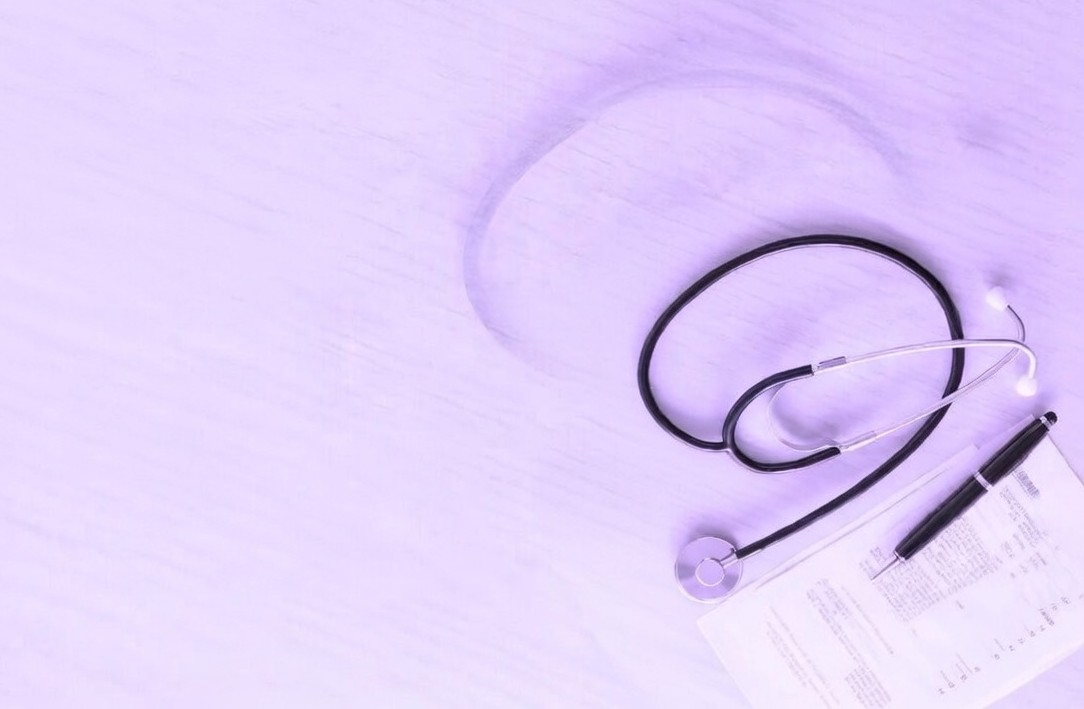
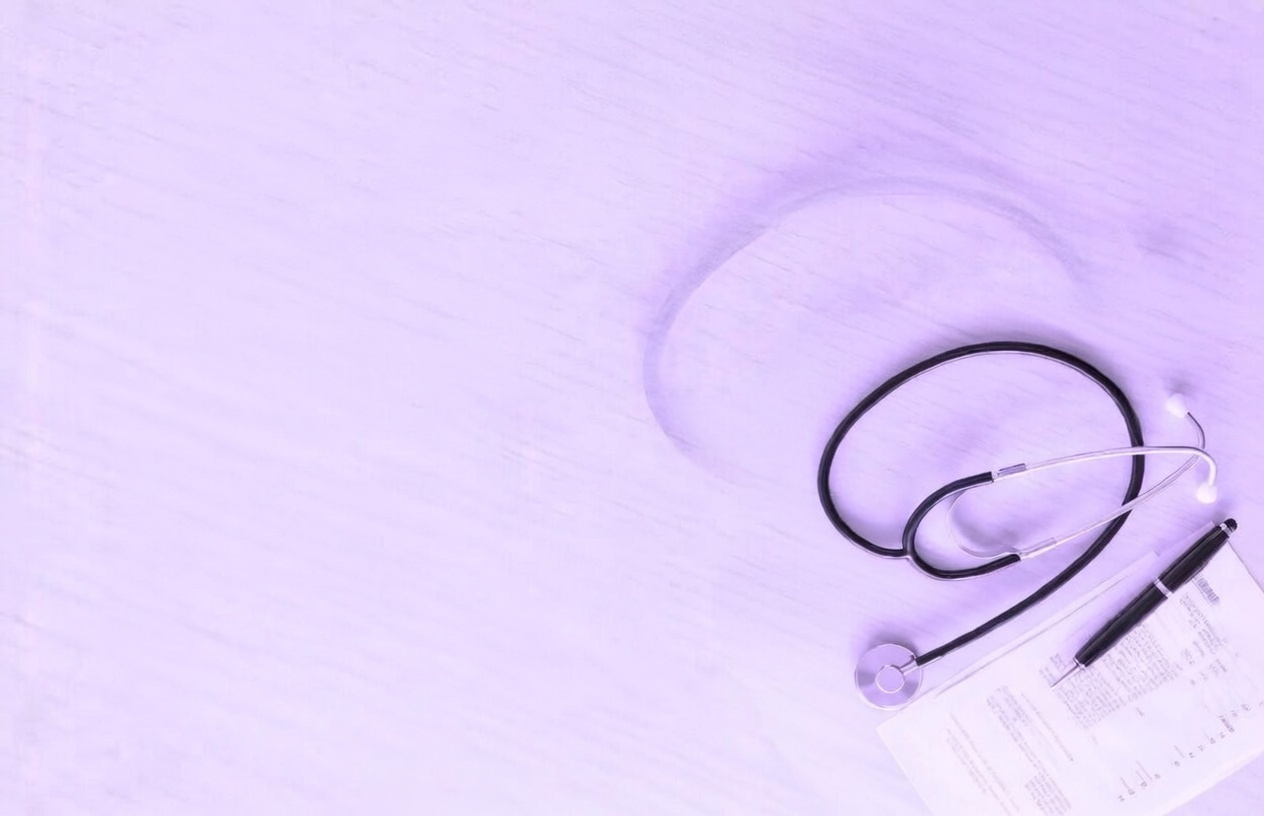
refactor : UI changes

diff --git a/src/components/home/Hero/Hero.tsx b/src/components/home/Hero/Hero.tsx
@@ -7,21 +7,45 @@ import { SITE_CONFIG, ANIMATION_VARIANTS } from "@/utils/constants"
 
 export const Hero: React.FC = () => {
     const { scrollY } = useScroll()
+
     const y = useTransform(scrollY, [0, 500], [0, 150])
     const opacity = useTransform(scrollY, [0, 300], [1, 0])
+
+    const baseDelay = 3.5
+    const subtitleDelay = baseDelay + 2.0
+    const ctaDelay = baseDelay + 2.5
+    const statsDelay = baseDelay + 3.0
+    const individualStatDelay = baseDelay + 3.5
 
     return (
         <section className="relative min-h-[90vh] flex items-center overflow-hidden pt-20">
             {/* Background Image with Overlay */}
             <div className="absolute inset-0 z-0">
-                <StaticImage
-                    src="../../../images/Hero-background.jpg"
-                    alt="Hero Background"
-                    className="w-full h-full object-cover"
-                    placeholder="blurred"
-                    loading="eager"
-                />
-                <div className="absolute inset-0 bg-white/30 backdrop-blur-sm" />
+                {/* Desktop Background */}
+                <div className="hidden lg:block absolute inset-0">
+                    <StaticImage
+                        src="../../../images/Hero-background.jpg"
+                        alt="Hero Background"
+                        className="w-full h-full object-cover"
+                        imgStyle={{ transform: 'scale(1.1)' }}
+                        placeholder="blurred"
+                        loading="eager"
+                    />
+                    <div className="absolute inset-0 bg-white/10 backdrop-blur-none" />
+                </div>
+
+                {/* Mobile Background */}
+                <div className="lg:hidden absolute inset-0">
+                    <StaticImage
+                        src="../../../images/Hero-background.jpg"
+                        alt="Mobile Hero Background"
+                        className="w-full h-full object-cover"
+                        imgStyle={{ transform: 'scale(1.25)' }}
+                        placeholder="blurred"
+                        loading="eager"
+                    />
+                    <div className="absolute inset-0 bg-white/10 backdrop-blur-none" />
+                </div>
             </div>
 
             {/* Content */}
@@ -36,26 +60,62 @@ export const Hero: React.FC = () => {
                         animate="visible"
                         className="space-y-8"
                     >
-                        {/* Main Heading */}
-                        <motion.div variants={ANIMATION_VARIANTS.fadeUp}>
+                        {/* Main Heading with Typing Effect */}
+                        <motion.div
+                            initial="hidden"
+                            animate="visible"
+                        >
                             <h1 className="font-display text-5xl md:text-6xl lg:text-7xl font-semibold leading-tight text-neutral-text">
-                                {SITE_CONFIG.tagline.split(" ").map((word, i) => (
-                                    <motion.span
-                                        key={i}
-                                        initial={{ opacity: 0, y: 20 }}
-                                        animate={{ opacity: 1, y: 0 }}
-                                        transition={{ delay: i * 0.1 + 0.2 }}
-                                        className="inline-block mr-3"
-                                    >
-                                        {word}
-                                    </motion.span>
-                                ))}
+                                {SITE_CONFIG.tagline.split(" ").map((word, wordIndex, words) => {
+                                    // Calculate starting index for this word to maintain global stagger
+                                    const previousWords = words.slice(0, wordIndex)
+                                    const startIndex = previousWords.join(" ").length + (wordIndex > 0 ? 1 : 0)
+
+                                    return (
+                                        <span key={wordIndex} className="inline-block whitespace-nowrap">
+                                            {Array.from(word).map((char, charIndex) => (
+                                                <motion.span
+                                                    key={charIndex}
+                                                    variants={{
+                                                        hidden: { opacity: 0, y: 10 },
+                                                        visible: { opacity: 1, y: 0 },
+                                                    }}
+                                                    transition={{
+                                                        duration: 0.1,
+                                                        delay: baseDelay + (startIndex + charIndex) * 0.04
+                                                    }}
+                                                    className="inline-block"
+                                                >
+                                                    {char}
+                                                </motion.span>
+                                            ))}
+                                            {/* Add space after word if not the last word */}
+                                            {wordIndex < words.length - 1 && (
+                                                <motion.span
+                                                    variants={{
+                                                        hidden: { opacity: 0, y: 10 },
+                                                        visible: { opacity: 1, y: 0 },
+                                                    }}
+                                                    transition={{
+                                                        duration: 0.1,
+                                                        delay: baseDelay + (startIndex + word.length) * 0.04
+                                                    }}
+                                                    className="inline-block"
+                                                >
+                                                    {"\u00A0"}
+                                                </motion.span>
+                                            )}
+                                        </span>
+                                    )
+                                })}
                             </h1>
                         </motion.div>
 
                         {/* Subtitle */}
                         <motion.p
-                            variants={ANIMATION_VARIANTS.fadeUp}
+                            initial={{ opacity: 0, y: 20 }}
+                            animate={{ opacity: 1, y: 0 }}
+                            transition={{ delay: subtitleDelay, duration: 0.8 }}
                             className="text-xl md:text-2xl text-neutral-muted font-medium leading-relaxed max-w-2xl"
                         >
                             Compassionate, evidence-based mental health care tailored to your
@@ -64,7 +124,9 @@ export const Hero: React.FC = () => {
 
                         {/* CTA Buttons */}
                         <motion.div
-                            variants={ANIMATION_VARIANTS.fadeUp}
+                            initial={{ opacity: 0, y: 20 }}
+                            animate={{ opacity: 1, y: 0 }}
+                            transition={{ delay: ctaDelay, duration: 0.8 }}
                             className="flex flex-wrap gap-4"
                         >
                             <Button variant="primary" size="lg" className="rounded-full shadow-lg">
@@ -78,7 +140,9 @@ export const Hero: React.FC = () => {
 
                         {/* Stats */}
                         <motion.div
-                            variants={ANIMATION_VARIANTS.fadeUp}
+                            initial={{ opacity: 0, y: 20 }}
+                            animate={{ opacity: 1, y: 0 }}
+                            transition={{ delay: statsDelay, duration: 0.8 }}
                             className="grid grid-cols-2 md:grid-cols-3 gap-8 pt-8"
                         >
                             {[
@@ -90,7 +154,7 @@ export const Hero: React.FC = () => {
                                     key={stat.label}
                                     initial={{ opacity: 0, scale: 0.8 }}
                                     animate={{ opacity: 1, scale: 1 }}
-                                    transition={{ delay: 0.8 + index * 0.1 }}
+                                    transition={{ delay: individualStatDelay + index * 0.1 }}
                                     className="text-left"
                                 >
                                     <div className="font-display text-4xl font-bold text-primary-deep">

diff --git a/src/components/ui/Timeline.tsx b/src/components/ui/Timeline.tsx
@@ -148,61 +148,60 @@ export const EducationTimeline: React.FC = () => {
     const educationData: TimelineItem[] = [
         {
             id: "1",
-            year: "2015-2020",
-            title: "MBBS (Bachelor of Medicine, Bachelor of Surgery)",
-            institution: "Dhaka Medical College",
+            year: "2017-2019",
+            title: "Secondary School Certificate (SSC)",
+            institution: "Viqarunnisa Noon School & College",
             description:
-                "Completed comprehensive medical education with distinction, focusing on psychiatry and mental health during clinical rotations.",
-            icon: "GraduationCap",
+                "Completed secondary education with a strong academic foundation in science subjects, demonstrating early interest in medical studies.",
+            icon: "BookOpen",
             achievements: [
-                "First Class with Honors",
-                "Best Research Paper Award in Psychiatry",
-                "President of Medical Students Association",
+                "Science background",
+                "Consistent academic performance",
             ],
         },
         {
             id: "2",
-            year: "2021-2024",
-            title: "FCPS (Fellowship of College of Physicians and Surgeons)",
-            institution: "Bangladesh College of Physicians and Surgeons",
+            year: "2019-2021",
+            title: "Higher Secondary Certificate (HSC)",
+            institution: "Viqarunnisa Noon School & College",
             description:
-                "Specialized training in clinical psychology and psychiatry with emphasis on cognitive behavioral therapy and trauma-informed care.",
-            icon: "Award",
+                "Completed higher secondary education in the science stream, preparing for competitive medical admission examinations.",
+            icon: "GraduationCap",
             achievements: [
-                "Completed 100+ supervised clinical hours",
-                "Published 3 research papers in peer-reviewed journals",
-                "Advanced training in CBT and DBT methodologies",
+                "Science stream (Biology focus)",
+                "Medical admission preparation",
             ],
         },
         {
             id: "3",
-            year: "2024",
-            title: "Advanced Certification in Trauma Therapy",
-            institution: "International Trauma Studies Program",
+            year: "2023-2027",
+            title: "MBBS (Bachelor of Medicine, Bachelor of Surgery)",
+            institution: "Medical College for Women (MCW), Uttara",
             description:
-                "Intensive certification program focused on evidence-based trauma treatment modalities and crisis intervention techniques.",
-            icon: "BookOpen",
+                "Undergoing comprehensive medical training covering foundational sciences, clinical rotations, and patient-centered care across major medical disciplines.",
+            icon: "GraduationCap",
             achievements: [
-                "EMDR Therapy Certification",
-                "Somatic Experiencing Practitioner",
-                "Crisis Intervention Specialist",
+                "Core clinical rotations completed",
+                "Hands-on hospital training",
+                "Focused interest in cardiology",
             ],
         },
         {
             id: "4",
-            year: "2024-Present",
-            title: "Clinical Psychologist in Private Practice",
-            institution: "Virtual Chamber - Private Practice",
+            year: "2029-Present",
+            title: "FCPS (Cardiology)",
+            institution: "Dhaka Medical College",
             description:
-                "Providing comprehensive mental health services including individual therapy, couples counseling, and telepsychology services.",
-            icon: "Briefcase",
+                "Pursuing advanced postgraduate training in cardiology with emphasis on clinical cardiology, diagnostics, and evidence-based cardiovascular care.",
+            icon: "Award",
             achievements: [
-                "500+ successful client sessions",
-                "95% client satisfaction rate",
-                "Developing innovative teletherapy programs",
+                "Postgraduate residency training",
+                "Advanced cardiac diagnostics exposure",
+                "Clinical research involvement (ongoing)",
             ],
         },
     ]
+
 
     return (
         <section className="section-spacing">

diff --git a/src/components/layout/Navbar/Navbar.tsx b/src/components/layout/Navbar/Navbar.tsx
@@ -72,7 +72,7 @@ export const Navbar: React.FC = () => {
                                 >
                                     <Link
                                         to={link.href}
-                                        className="px-4 text-neutral-text hover:text-primary-deep font-medium transition-colors duration-200 relative group h-full flex items-center"
+                                        className="px-4 text-neutral-text hover:text-primary-deep font-poppins font-medium uppercase tracking-wider text-sm transition-colors duration-200 relative group h-full flex items-center"
                                         activeClassName="text-primary-deep"
                                     >
                                         <span className="relative h-full flex items-center">
@@ -85,7 +85,7 @@ export const Navbar: React.FC = () => {
                         </div>
 
                         <div className="hidden lg:flex items-center space-x-4">
-                            <Button variant="outline" size="md" className="rounded-[16px]">
+                            <Button variant="outline" size="md" className="rounded-[16px] font-poppins font-medium uppercase tracking-wider text-sm">
                                 <Download className="w-5 h-5 mr-2" />
                                 Download CV
                             </Button>
@@ -125,7 +125,7 @@ export const Navbar: React.FC = () => {
                             >
                                 <Link
                                     to={link.href}
-                                    className="block px-4 py-3 text-lg font-medium text-neutral-text hover:text-primary-deep hover:bg-primary-light rounded-lg transition-all"
+                                    className="block px-4 py-3 text-lg font-poppins font-medium uppercase tracking-wide text-neutral-text hover:text-primary-deep hover:bg-primary-light rounded-lg transition-all"
                                     activeClassName="text-primary-deep bg-primary-light"
                                     onClick={() => setIsOpen(false)}
                                 >
@@ -136,7 +136,7 @@ export const Navbar: React.FC = () => {
                     </div>
 
                     <div className="space-y-3 pt-6 border-t border-neutral-border">
-                        <Button variant="outline" size="md" className="w-full rounded-[16px]">
+                        <Button variant="outline" size="md" className="w-full rounded-[16px] font-poppins font-medium uppercase tracking-wide">
                             <Download className="w-5 h-5 mr-2" />
                             Download CV
                         </Button>

diff --git a/src/components/layout/Layout.tsx b/src/components/layout/Layout.tsx
@@ -19,7 +19,14 @@ export const Layout: React.FC<LayoutProps> = ({
     description,
     noFooter = false,
 }) => {
-    const [showOverlay, setShowOverlay] = useState(true)
+    const [showOverlay, setShowOverlay] = useState(false)
+
+    React.useEffect(() => {
+        const isHome = window.location.pathname === "/"
+        if (isHome) {
+            setShowOverlay(true)
+        }
+    }, [])
 
     const pageTitle = title
         ? `${title} | ${SITE_CONFIG.name}`
@@ -47,7 +54,7 @@ export const Layout: React.FC<LayoutProps> = ({
                 <meta name="twitter:description" content={pageDescription} />
             </Helmet>
 
-            <TNLogoOverlay onComplete={() => setShowOverlay(false)} />
+            {showOverlay && <TNLogoOverlay onComplete={() => setShowOverlay(false)} />}
 
             <div className="flex flex-col min-h-screen">
                 <Navbar />

diff --git a/src/styles/typography/typography.css b/src/styles/typography/typography.css
@@ -1,4 +1,4 @@
-@import url('https://fonts.googleapis.com/css2?family=Outfit:wght@400;500;600&family=Inter:wght@300;400;500&display=swap');
+@import url('https://fonts.googleapis.com/css2?family=Outfit:wght@400;500;600&family=Inter:wght@300;400;500&family=Poppins:wght@400;500;600&display=swap');
 
 :root {
     --font-heading: 'Outfit', sans-serif;

diff --git a/tailwind.config.js b/tailwind.config.js
@@ -34,6 +34,7 @@ module.exports = {
                 display: ["Outfit", "sans-serif"],
                 body: ["Inter", "sans-serif"],
                 sans: ["Inter", "system-ui", "sans-serif"],
+                poppins: ["Poppins", "sans-serif"],
             },
             animation: {
                 "fade-in": "fadeIn 0.6s ease-out",
